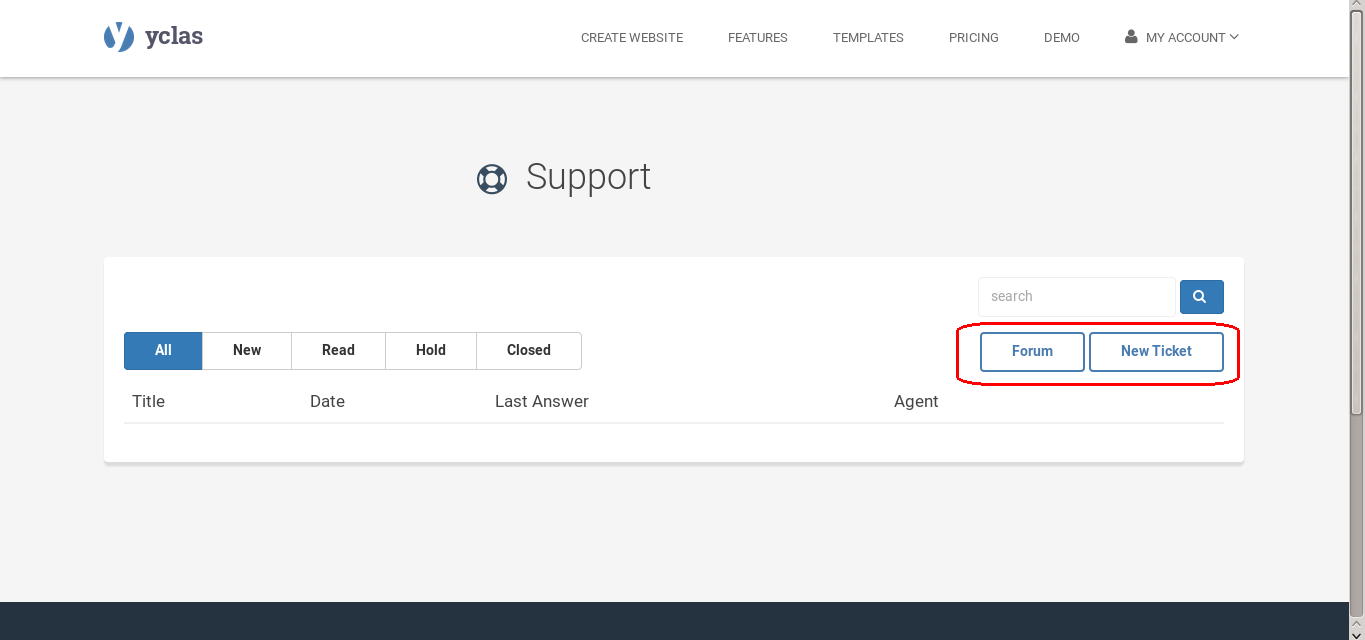
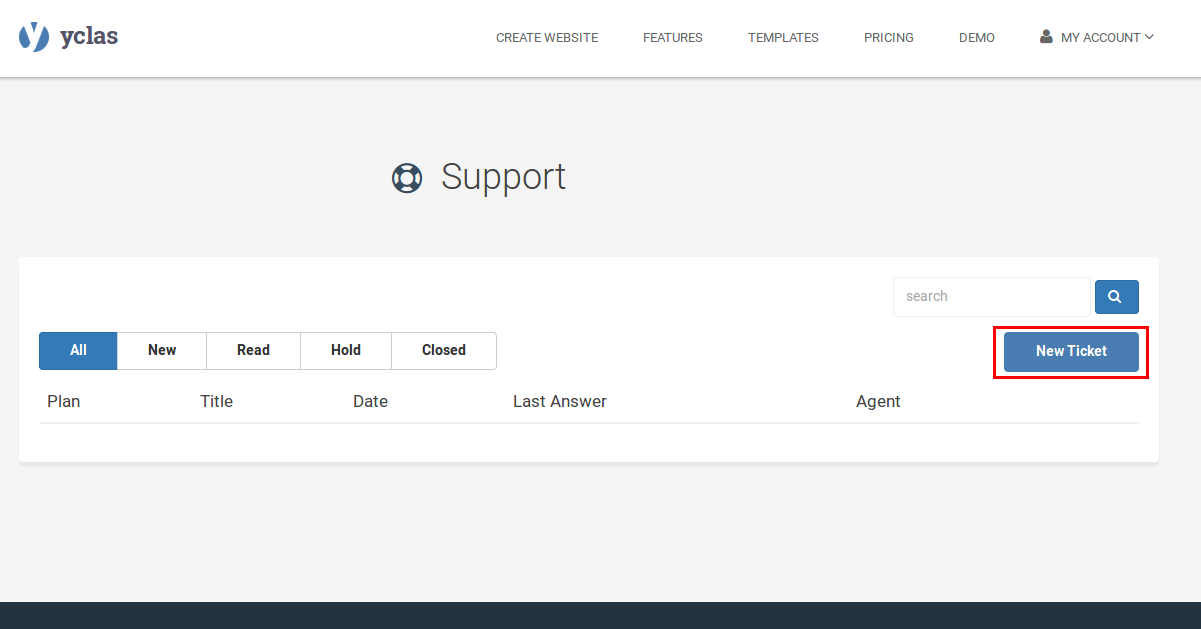
fixes/improvements

diff --git a/use-yclas-premium-support-system.md b/use-yclas-premium-support-system.md
@@ -12,15 +12,15 @@ keywords: support, help, ticket, reply, technical
 
 ### Client login
 
-With [paid plans](https://yclas.com/pricing.html) we offer private professional support done by our developers. We will answer within 24 working hours and we will try our best to help you always!
+With [all the plans](https://yclas.com/pricing.html) we offer private professional support done by our developers. We will answer within 24 working hours and we will try our best to help you always!
 
-To use Private Professional Support or Forum login to [Yclas](https://yclas.com/panel/auth/login) and on **My Account** choose **Support**.
+To use Private Professional Support login to [Yclas](https://yclas.com/panel/auth/login) and on **My Account** choose **Support**.
 
 ![Yclas Support1](//docs.yclas.com/images/yclas-support.png)
 
 ### Opening a ticket
 
-Once you are on the Support page you should be able to see the buttons **"Forum"** and **"New Ticket"**.
+Once you are on the Support page you should be able to see the button **"New Ticket"**.
 
 When you click **"New Ticket"**, a ticket opening panel comes up, in which you could put the title and describe whatever you need help with.
 
@@ -31,6 +31,15 @@ When you click **"New Ticket"**, a ticket opening panel comes up, in which you c
 On Support page you can see a list of all opened tickets with their status; Opened, held or closed. A ticket is on _"hold"_ status when you receive a reply from one of the support agents.
 
 To reply you can simply click on the message shaped button next to the ticket and the reply form will open with all of the previous conversations. From there, you can read the full ticket conversation, close your ticket or place a reply.
+
+
+### What does support cover
+
+We will always try to help to you as much as we can! We love helping new businesses and we will always try our best. You can open a support ticket any time you have a bug, an error or an issue related to the software, or if you are not sure how something works. We are here to help!
+
++ Mentoring for technologies CSS, PHP, HTML, JavaScript or other technologies used in our software.
++ Sign up or support for third party services.
++ Customization of software or themes.
 
 
 ## Yclas Self Hosted
@@ -73,3 +82,18 @@ To reply you can simply click on the message shaped button next to the ticket an
 From there, you can read the full ticket conversation, close your ticket or place a reply.
 
 
+### What does support cover
+
+We will always try to help to you as much as we can! We love helping new businesses and we will always try our best. You can open a support ticket any time you have a bug, an error or an issue related to the software, or if you are not sure how something works. We are here to help!
+
+Just for you to know, **support doesn't cover these obvious points**: 
+
++ **Mentoring for technologies CSS, PHP, HTML, JavaScript** or other technologies used in our software.
++ **Manual software updates** (but guiding the process is included).
++ In case of theme purchase **only 1 installation** is covered with our support.
++ **Support for customized themes** or software not done by us.
++ Configuration of server or shared hosting.
++ Sign up or support for third party services.
++ **Customization of software** or themes.
++ How to browse Internet.
++ **Language translation** and other dictionary services.

diff --git a/how-to-use-messaging-system.md b/how-to-use-messaging-system.md
@@ -16,7 +16,7 @@ This new feature makes it easier to communicate between seller and buyer about a
 
 ### How to enable Messaging System
 
-To enable messaging system, you simply need to login to your Panel, go to **Settings** -> **General** and set **Activates Messaging System = ON**.
+To enable messaging system, you simply need to login to your Panel, go to **Settings** -> **Plugins** and set **Messaging System** to **Enabled**.
 
 <a href="{{ site.baseurl }}/images/message-system.png" class="thumbnail gallery-item" data-gallery>
 ![message system](//docs.yclas.com/images/message-system.png)

diff --git a/SMTP-configuration.md b/SMTP-configuration.md
@@ -41,7 +41,7 @@ Using TLS:
 + **Smtp active**: ON
 + **Smtp Secure**: TLS
 + **Smtp host**: smtp.gmail.com
-+ **Smtp port**: 465
++ **Smtp port**: 587
 + **Smtp auth**: ON
 + **Smtp user**: _email address (example@gmail.com)_
 + **Smtp password**: _gmail account password_
